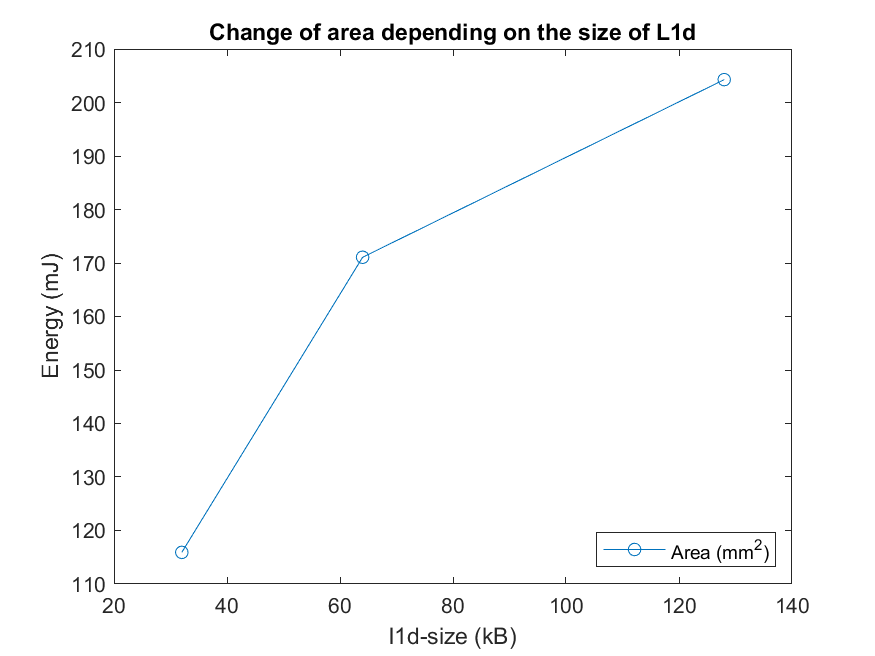
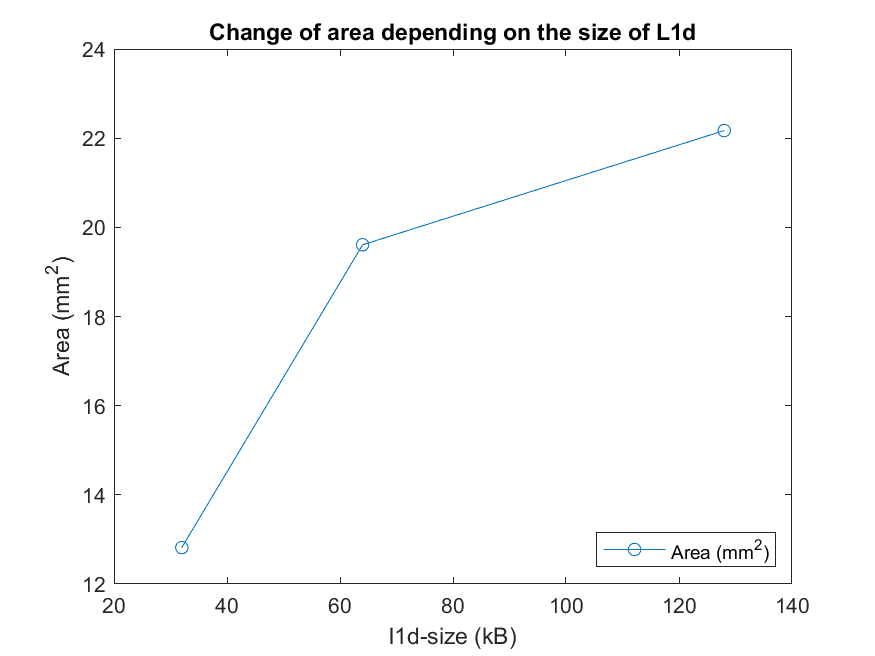
Change in one plot. README file added for LAB3

diff --git a/LAB3/README.md b/LAB3/README.md
@@ -68,3 +68,88 @@ Processor:
 ~~~
 
 Η διαφορά στην κατανάλωση ισχύος είναι δραματικά μεγαλύτερη στον Xeon επεξεργαστή. Αυτό όμως που παίζει στην παρούσα περίπτωση το μεγαλύτερο ρόλο στο energy efficiency είναι το Total Leakage του Xeon, το οποίο υπερισχύει. Συγκεκριμένα, το Total Leakage του Xeon είναι 21 φορές μεγαλύτερο από το Peak Power του ARM A9 που σημαίνει ότι ακόμα και αν το κύκλωμα είναι σε λειτουργία "OFF" καταναλώνει 21 φορές παραπάνω ενέργεια από τον ARM A9 όσο αυτός είναι σε κανονική λειτουργία. Σε καμία περίπτωση λοιπόν δεν μπορεί να είναι ενεργειακά πιο αποδοτικός ο Xeon, ακόμα και αν είναι 40 φορές γρηγορότερος.
+
+## Δεύτερο μέρος
+
+Προτού απαντηθούν τα ερωτήματα, είναι κρίσιμο να αναφερθεί ότι για την αυτοματοποίηση της διαδικασίας χρησιμοποιήθηκαν διάφορα bash scripts `.sh` προκειμένου να τρέξουμε πολλές εντολές χωρίς απαραίτητα να χρειάζεται να επιβλέπουμε τη διαδικασία. Τα scripts μπορούν να χρησιμοποιηθούν από τον οποιονδήποτε αρκετά εύκολα, αρκεί να αλλαχτεί το directory που είναι τοποθετημένος ο gem5. Για κάποιον ο οποίος θέλει να ελέγχει τα αποτελέσματα κάθε φορά που τελειώνει μία διεργασία, χρησιμοποιείται ένα αρχείο `.wav` προκειμένου να δημιουργεί έναν ήχο ειδοποίησης που υποδηλώνει ότι η συγκεκριμένη διεργασία τελείωσε και το αρχείο αποθηκεύτηκε επιτυχώς.
+
+### 1. Άντληση πληροφοριών από τα scripts
+
+Χρησιμοποιώντας τα αρχεία `.xml` που δημιουργήσαμε, μπορούμε εύκολα να αντλήσουμε την πληροφορία όσον αφορά το area (αθροίζοντας το area του core με το L2 area). Την πληροφορία για το delay μπορούμε να την αντλήσουμε από το αρχείο `config.json` από την παράμετρο **sim_seconds**. Η ενέργεια προκύπτει χρησιμοποιώντας το python script `print-energy.py` , το xml αρχείο που δημιουργήσαμε και το `config.txt` αρχείο. 
+
+### 2. Γραφήματα
+
+Για τη δημιουργία γραφημάτων, δημιουργήσαμε ένα αρχείο excel στο οποίο τοποθετήθηκε όλη η πληροφορία που αντλήθηκε από τα παραπάνω ερωτήματα αλλά και από το προηγούμενο εργαστήριο. Με τη χρήση του λογισμικού Matlab δημιουργήσαμε το αρχείο `plots.m` το οποίο εισάγει τα δεδομένα από το excel μας, περνάει τις τιμές σε έναν δισδιάστατο πίνακα και μας επιτρέπει να ανατρέχουμε εύκολα σε οποιαδήποτε τιμή του πίνακα επιθυμούμε. Στο αρχείο εμπεριέχεται ο κώδικας για όλα τα plots που έχουμε κατασκευάσει.
+
+Τα γραφήματα έχουν δημιουργηθεί με διαφορετικές επιλογές όσον αφορά το hardware για να μπορούμε να τα συγκρίνουμε καλύτερα. 
+
+#### Αποτελέσματα:
+
+**A.** Για τα παρακάτω γραφήματα χρησιμοποιήθηκαν τα νούμερα 1 έως 3:
+
+| no | l1d_size | l1i_size | l2_size | l1i_associativity | l1d_associativity | l2_associativity | cacheline_size |
+|----|----------|----------|---------|-------------------|-------------------|------------------|----------------|
+| 1  | 32       | 64       | 512     | 1                 | 1                 | 2                | 64             |
+| 2  | 64       | 64       | 1024    | 1                 | 1                 | 2                | 64             |
+| 3  | 128      | 64       | 1024    | 1                 | 1                 | 2                | 64             | 
+
+![](https://github.com/PoSeiDonTeaM/computer_architecture/blob/master/LAB3/media/plots/l1d-size-area.png)
+
+![](https://github.com/PoSeiDonTeaM/computer_architecture/blob/master/LAB3/media/plots/l1d-size-energy.png)
+
+Παρατηρούμε ότι όσο αυξάνεται το μέγεθος της l1D τόσο αυξάνεται και η ενέργεια αλλά και η περιοχή.
+
+**Β.** Για τα παρακάτω γραφήματα χρησιμοποιήθηκαν τα νούμερα 4 έως 6:
+
+| no | l1d_size | l1i_size | l2_size | l1i_associativity | l1d_associativity | l2_associativity | cacheline_size |
+|----|----------|----------|---------|-------------------|-------------------|------------------|----------------|
+| 4  | 128      | 128      | 1024    | 1                 | 1                 | 2                | 64             |
+| 5  | 128      | 128      | 2048    | 1                 | 1                 | 2                | 64             |
+| 6  | 128      | 128      | 4096    | 1                 | 1                 | 2                | 64             |
+
+![](https://github.com/PoSeiDonTeaM/computer_architecture/blob/master/LAB3/media/plots/l2-size-area.png)
+
+![](https://github.com/PoSeiDonTeaM/computer_architecture/blob/master/LAB3/media/plots/l2-size-energy.png)
+
+Παρατηρούμε παρόμοια αύξηση με τα προηγούμενα γραφήματα, αλλά η αύξηση στην ενέργεια και την περιοχή αυξάνοντας το μέγεθος του l2 φαίνεται ότι είναι δραματικά μεγαλύτερη. 
+
+**Γ.** Για τα παρακάτω γραφήματα χρησιμοποιήθηκαν τα νούμερα 7 έως 8:
+
+| no | l1d_size | l1i_size | l2_size | l1i_associativity | l1d_associativity | l2_associativity | cacheline_size |
+|----|----------|----------|---------|-------------------|-------------------|------------------|----------------|
+| 7  | 32       | 64       | 512     | 2                 | 2                 | 2                | 64             |
+| 8  | 64       | 64       | 512     | 4                 | 4                 | 2                | 64             |
+
+![](https://github.com/PoSeiDonTeaM/computer_architecture/blob/master/LAB3/media/plots/l1d-size-area-2.png)
+
+![](https://github.com/PoSeiDonTeaM/computer_architecture/blob/master/LAB3/media/plots/l1d-size-energy-2.png)
+
+Η συγκεκριμένη αρχιτεκτονική είναι παρόμοια με την αρχιτεκτονική **Α**, αλλά με υποδιπλασιασμένο το μέγεθος του l2. Παρατηρούμε ότι υποδιπλασιάζοντας το μέγεθος του l2 έχουμε πάλι αύξηση στην ενέργεια και στην περιοχή αλλά είναι συγκριτικά μικρότερη αυτή τη φορά. Μπορούμε να βγάλουμε λοιπόν το συμπέρασμα εύκολα ότι συμφέρει ενεργειακά και οικονομικά να προσθέσουμε στο σύστημά μας μικρότερο μέγεθος l2 cache και να έχουμε ίδια αποτελέσματα όσον αφορά το χρόνο απόκρισης.
+
+**Δ.** Για τα παρακάτω γραφήματα χρησιμοποίηθηκαν τα νούμερα 13 έως 15:
+
+| no | l1d_size | l1i_size | l2_size | l1i_associativity | l1d_associativity | l2_associativity | cacheline_size |
+|----|----------|----------|---------|-------------------|-------------------|------------------|----------------|
+| 13 | 32       | 64       | 512     | 8                 | 8                 | 8                | 64             |
+| 14 | 64       | 128      | 1024    | 8                 | 8                 | 8                | 64             |
+| 15 | 128      | 128      | 2048    | 8                 | 8                 | 8                | 64             |
+
+![](https://github.com/PoSeiDonTeaM/computer_architecture/blob/master/LAB3/media/plots/l1d-l2-size-area.png)
+
+![](https://github.com/PoSeiDonTeaM/computer_architecture/blob/master/LAB3/media/plots/l1d-l2-size-energy.png)
+
+Προηγουμένως είδαμε ότι όσο μεγαλύτερο ήταν το μέγεθος του l2 τόσο μεγαλύτερη ήταν η ενεργειακή κατανάλωση. Τα αποτελέσματα όμως εκείνα ήταν για χαμηλό associativity των l1 και l2. Αυξάνοντας το associativity λοιπόν παρατηρούμε ότι ακόμα κι αν μεγαλώσουμε το μέγεθος του l2, η ενεργειακή κατανάλωση είναι αρκετά μικρότερη από το προηγούμενο configuration μας. Παρόλο αυτά, το μέγεθος παραμένει ιδιαίτερα αυξημένο κάτι το οποίο μας στοιχίζει.
+
+### 3. Σχολιασμός συνάρτησης κόστους
+
+Η συνάρτηση κόστους φαίνεται να λειτουργεί επιτυχώς, η οποία μας διαμορφώνει εύκολα και γρήγορα το επιθυμητό configuration μας επιλέγοντας τα ιδανικά μεγέθη (και τις υπόλοιπες παραμέτρους) για τις l1 και l2 caches μας. Με αυτόν τον τρόπο μπορούμε να κρατήσουμε την ενεργειακή μας κατανάλωση στο minimum και να έχουμε μικρές αποκλίσεις στα αποτελέσματά μας. 
+
+## Κριτική
+
+Η συγκεκριμένη εργασία ήταν ίσως η πιο ενδιαφέρουσα και από τις προηγούμενες δύο καθώς συνδύαζε πολλαπλά προβλήματα (simulation time, area, power consumption, energy) και μας βοήθησε να μπούμε στη λογική του "αρχιτέκτονα" υπολογιστών και κληθήκαμε να σκεφτούμε το κόστος που θα έχει η επιλογή του hardware μας είτε αυτό είναι ενεργειακό είτε είναι οικονομικό είτε σε χρόνο απόκρισης. 
+
+Κάτι που ίσως θα έπρεπε να είχε προβλεφθεί για τη συγκεκριμένη εργασία είναι τα τρισδιάστατα γραφήματα. Αν μπορούσαμε με κάποιον τρόπο να αναπαραστήσουμε τα γραφήματα στον τρισδιάστατο χώρο ίσως ήταν πιο ευδιάκριτα για τον αναγνώστη. 
+
+Θα θέλαμε επίσης να δούμε και την παράμετρο της θερμοκρασίας που στα μικροηλεκτρονικά είναι ιδιαίτερα σημαντική. Μπορεί εμείς να επιλέγουμε αυτή τη στιγμή το hardware μας για το πρόγραμμα που θέλουμε να τρέχει το configuration μας, αλλά δεν έχουμε λάβει υπόψη μας τη θερμοκρασία η οποία μπορεί πολύ εύκολα να αλλάξει τον τρόπο επιλογής.
+
+Ίσως θα μπορούσε να μπει μία έξτρα εργασία προσθετική και προαιρετική χωρίς να υπάρχει απαραίτητα 4ο εργαστήριο κατά την οποία θα κληθούμε να γράψουμε ένα πρόγραμμα σε C σε κάποιον μικροελεγκτή και θα πρέπει να επιλέξουμε το hardware μας και κάνοντας κάποιες βελτιστοποιήσεις με τη συνάρτηση κόστους που δημιουργήσαμε με πραγματικά δεδομένα. Για παράδειγμα, θα μπορούσαμε να έχουμε μία επιχείρηση η οποία θα πρέπει να επιλέξει ένα configuration προκειμένου να τρέχει ένα συγκεκριμένο πρόγραμμα για έναν αριθμό από υπολογιστές. Θα μας δίνεται η τιμή του κόστους για 1kW από τον πάροχο ηλεκτρική ενέργειας και θα έπρεπε να διαμορφώσουμε ένα configuration με το λιγότερο δυνατό οικονομικό κόστος αλλά και με τη μεγαλύτερη δυνατή διάρκεια ζωής. Θα ήταν κάτι ιδιαίτερα ενδιαφέρον να κληθούμε να απαντήσουμε σε ένα πραγματικό πρόβλημα μηχανικού και να μπούμε έμπρακτα στο ρόλο αυτού.
